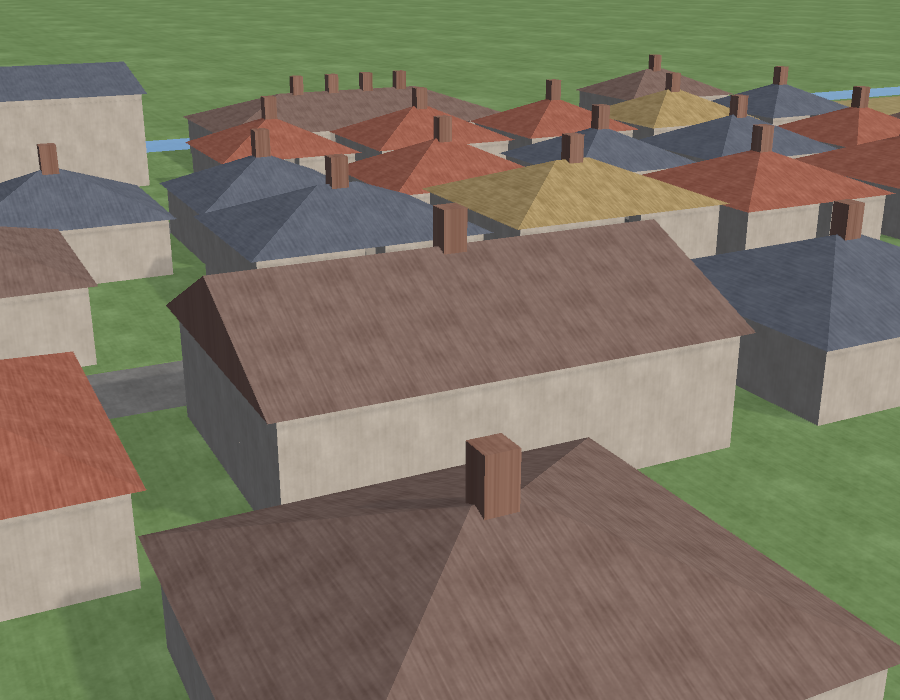
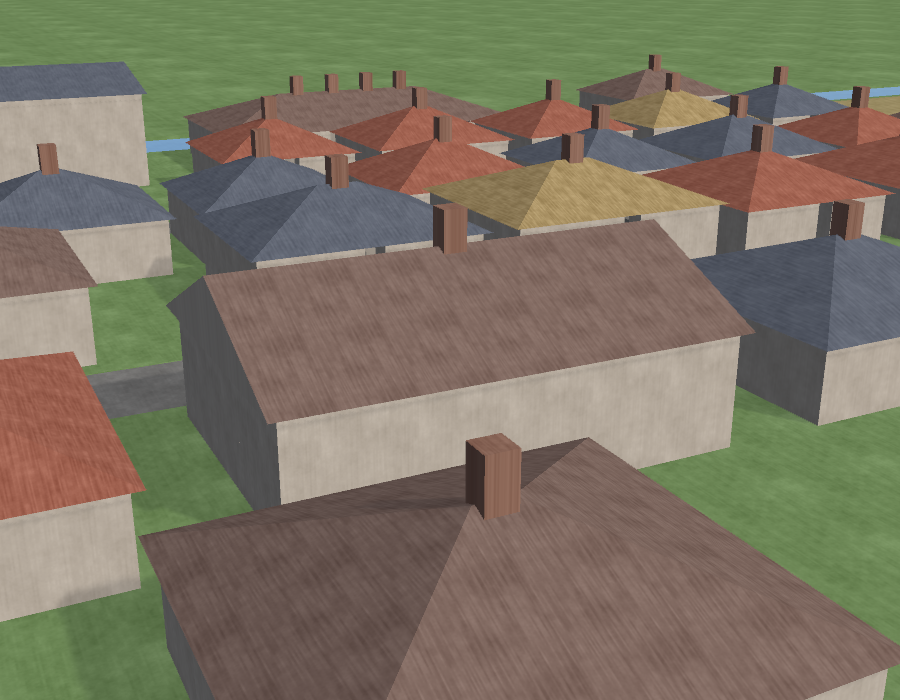
Gable ends and towers in wall stone, spires in slate, and the lucam moved
Three of the warts STATE.md has been carrying.

1. A GABLE END IS NOT ROOFING. It is the building's own masonry carried up
   to the ridge. It was drawn first in clay tile - roof tiles on a vertical
   wall - and then in chimney brick, which was better and still wrong: brown
   brick against pale render. The roof material array now carries the walling
   too, so a gable end is drawn in the same stuff as the wall below it.
   Church towers and bell-cotes are the same argument: they are walls that
   happen to be built by the roof pass.

2. A SPIRE IS LEAD OR SLATE, never brick. St Anne's reads as a church now
   rather than as a brick obelisk with a nave attached.

3. THE LUCAM WAS A CHIMNEY. It sat at eaves + half the pitch and only 0.4
   into the building, so it perched near the ridge and read as a second
   stack. A lucam is what the sack hoist runs out of: it OVERHANGS the wall
   so a rope drops clear to a cart below. It has to break the wall line, not
   the roof line. Now at the eaves, projecting 2.2 m out.

Unity-only, so Noir.Core.Tests cannot be affected by any of it; smoke test
is the check and it passes. 61 buildings, 1336 renderers, unchanged.
Draw calls 28 -> 31, the cost of the sixth submesh.

Changed region(s): [[0.1867, 0.39, 0.28, 0.57], [0.28, 0.57, 0.3111, 0.6]]

diff --git a/Assets/Noir/Unity/RoofBuilder.cs b/Assets/Noir/Unity/RoofBuilder.cs
@@ -1,4 +1,4 @@
-using System.Collections.Generic;
+using System.Collections.Generic;
 using UnityEngine;
 using UnityEngine.Rendering;
 using Noir.Core.World;
@@ -130,12 +130,9 @@ namespace Noir.Unity
         }
 
         /// <summary>
-        /// Which kinds of place have a roof over them at all - which is the same question as
-        /// which have walls, so SunRig asks this rather than keeping its own list of the
-        /// buildings that deserve windows. Two hand-written lists is one too many.
-        /// </summary>
-        /// <summary>
-        /// Whether this kind has a roof, asked of the kind table rather than of a switch.
+        /// Whether this kind has a roof at all - the same question as which have walls, so SunRig
+        /// asks this rather than keeping its own list of the buildings that deserve windows. Two
+        /// hand-written lists is one too many, which is the argument that ends in the table.
         ///
         /// This WAS a switch listing the five or six open-ground kinds by hand, with a
         /// `default: return true` underneath. Two things were wrong with that. It had already
@@ -372,9 +369,9 @@ namespace Noir.Unity
             // red triangular slab where its west wall should be, which read as a marquee rather
             // than as a building.
             //
-            // Masonry is already in the roof material array as the chimney covering, so this
-            // costs no new material and no new submesh.
-            var endTris = gable ? into.Tris[Materials3D.ChimneyIndex] : tris;
+            // The walling is now carried in the roof material array too, so a gable end is drawn
+            // in the same stuff as the wall below it rather than in chimney brick.
+            var endTris = gable ? into.Tris[Materials3D.WallIndex] : tris;
 
             void End(int i, int j, int k)
             {

diff --git a/Assets/Noir/Unity/Materials3D.cs b/Assets/Noir/Unity/Materials3D.cs
@@ -1,4 +1,4 @@
-using System.Collections.Generic;
+using System.Collections.Generic;
 using UnityEngine;
 using Noir.Core.World;
 using Terrain = Noir.Core.World.Terrain;
@@ -130,6 +130,7 @@ namespace Noir.Unity
                     Roofing("RoofWorn", "roof_worn"),
                     Roofing("RoofThatch", "roof_thatch"),
                     Roofing("Brick", "brick"),      // chimneys - see ChimneyIndex
+                    Wall,                           // gable ends, towers - see WallIndex
                 };
                 return _roofs;
             }
@@ -141,6 +142,20 @@ namespace Noir.Unity
         /// has ever been made of.
         /// </summary>
         public static int ChimneyIndex => 4;
+
+        /// <summary>
+        /// The building's own walling, carried in the roof mesh.
+        ///
+        /// A GABLE END is not roofing. It is the masonry of the building continued up to the
+        /// ridge, and it was being drawn in roof tile - clay tiles on a vertical wall - and then
+        /// in chimney brick, which is better and still wrong: brown brick against pale render.
+        /// Church towers and bell-cotes are the same argument. They are walls that happen to be
+        /// built by the roof pass.
+        /// </summary>
+        public static int WallIndex => 5;
+
+        /// <summary>A spire is lead or slate, never brick.</summary>
+        public static int SpireIndex => 0;
 
         private static Material Roofing(string name, string texture)
         {

diff --git a/Assets/Noir/Unity/Massing/MassingExtras.cs b/Assets/Noir/Unity/Massing/MassingExtras.cs
@@ -133,13 +133,21 @@ namespace Noir.Unity
 
             float x = b.X + b.W * 0.5f;
             float y = b.Y + b.H * 0.5f;
-            float top = m.Eaves + m.Pitch * 0.5f;
 
-            // Projecting from the long wall, which is the one a cart can pull up to.
-            if (alongX) y = b.Y + 0.4f;
-            else        x = b.X + 0.4f;
+            // AT THE EAVES, PROJECTING OUT - not up near the ridge.
+            //
+            // The first version put it at eaves + half the pitch and only 0.4 into the building,
+            // which left a small box perched near the ridge line reading as a second chimney. A
+            // lucam is the thing the sack hoist runs out of: it overhangs the wall so a rope can
+            // drop clear of it to a cart standing below, and it is the one feature you can name a
+            // mill by from a field away. It has to break the WALL line, not the roof line.
+            float top = m.Eaves + 0.5f;
+            float depth = 2.2f;
 
-            var size = alongX ? new Vector3(2.0f, 1.6f, 1.4f) : new Vector3(1.4f, 1.6f, 2.0f);
+            if (alongX) y = b.Y - depth * 0.25f;      // out over the long wall
+            else        x = b.X - depth * 0.25f;
+
+            var size = alongX ? new Vector3(2.6f, 2.4f, depth) : new Vector3(depth, 2.4f, 2.6f);
             Box(into, new Vector3(x, top, -y), size, submesh);
         }
 

diff --git a/Assets/Noir/Unity/Massing/Grammars.cs b/Assets/Noir/Unity/Massing/Grammars.cs
@@ -1,4 +1,4 @@
-using Noir.Core.World;
+using Noir.Core.World;
 
 namespace Noir.Unity
 {
@@ -47,7 +47,7 @@ namespace Noir.Unity
         public Massing Profile(Place place) => new Massing(4.0f, RoofForm.Gable, 2.6f);
 
         public void Extras(Place place, MeshChunk into) =>
-            MassingExtras.BellCote(place, Profile(place), into, Materials3D.ChimneyIndex);
+            MassingExtras.BellCote(place, Profile(place), into, Materials3D.WallIndex);
     }
 
     /// <summary>
@@ -69,8 +69,8 @@ namespace Noir.Unity
 
         public void Extras(Place place, MeshChunk into)
         {
-            var tower = MassingExtras.Tower(place, Profile(place), into, Materials3D.ChimneyIndex);
-            MassingExtras.Spire(tower, into, Materials3D.ChimneyIndex);
+            var tower = MassingExtras.Tower(place, Profile(place), into, Materials3D.WallIndex);
+            MassingExtras.Spire(tower, into, Materials3D.SpireIndex);
         }
     }
 
